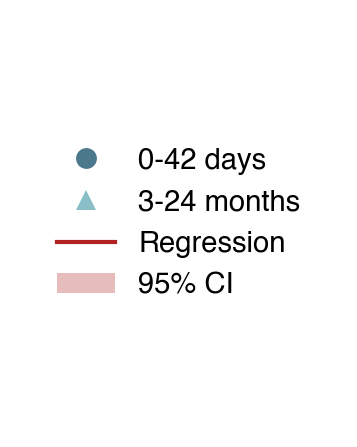
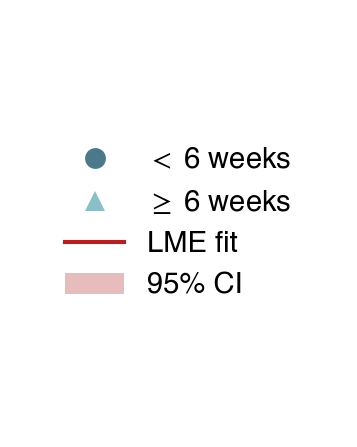
updates to legend

diff --git a/DTI_Processing_Scripts/dti_results_plotting_main.py b/DTI_Processing_Scripts/dti_results_plotting_main.py
@@ -1797,10 +1797,14 @@ def create_area_predicts_fa_plot_paper(df, result4, result5, timepoints=["ultra-
     ax1.spines['right'].set_visible(False)
 
     plt.tight_layout()
-    plt.savefig(f'{output_dir}/area_predicts_fa_anterior_paper.png', dpi=300, bbox_inches='tight')
     plt.savefig(f'{output_dir}/area_predicts_fa_anterior_paper.pdf', bbox_inches='tight')
     plt.savefig(f'{output_dir}/area_predicts_fa_anterior_paper.tiff', dpi=600, bbox_inches='tight')
     plt.savefig('DTI_Processing_Scripts/dti_plots/area_predicts_fa_anterior_paper.png', dpi=300, bbox_inches='tight')
+    # Save variant with faint origin axes
+    ax1.axhline(y=0, color='gray', linestyle='-', linewidth=0.5, alpha=0.3)
+    ax1.axvline(x=0, color='gray', linestyle='-', linewidth=0.5, alpha=0.3)
+    plt.savefig(f'{output_dir}/area_predicts_fa_anterior_paper_with_axes.pdf', bbox_inches='tight')
+    plt.savefig(f'{output_dir}/area_predicts_fa_anterior_paper_with_axes.tiff', dpi=600, bbox_inches='tight')
     plt.close()
 
     # ============ POSTERIOR PLOT (no y-axis label, no x-axis label) ============
@@ -1856,10 +1860,14 @@ def create_area_predicts_fa_plot_paper(df, result4, result5, timepoints=["ultra-
     ax2.spines['right'].set_visible(False)
 
     plt.tight_layout()
-    plt.savefig(f'{output_dir}/area_predicts_fa_posterior_paper.png', dpi=300, bbox_inches='tight')
     plt.savefig(f'{output_dir}/area_predicts_fa_posterior_paper.pdf', bbox_inches='tight')
     plt.savefig(f'{output_dir}/area_predicts_fa_posterior_paper.tiff', dpi=600, bbox_inches='tight')
     plt.savefig('DTI_Processing_Scripts/dti_plots/area_predicts_fa_posterior_paper.png', dpi=300, bbox_inches='tight')
+    # Save variant with faint origin axes
+    ax2.axhline(y=0, color='gray', linestyle='-', linewidth=0.5, alpha=0.3)
+    ax2.axvline(x=0, color='gray', linestyle='-', linewidth=0.5, alpha=0.3)
+    plt.savefig(f'{output_dir}/area_predicts_fa_posterior_paper_with_axes.pdf', bbox_inches='tight')
+    plt.savefig(f'{output_dir}/area_predicts_fa_posterior_paper_with_axes.tiff', dpi=600, bbox_inches='tight')
     plt.close()
 
     print(f"Saved FA paper plots to {output_dir}/")
@@ -1976,10 +1984,14 @@ def create_area_predicts_md_plot_paper(df, result4, result5, timepoints=["ultra-
     ax1.spines['right'].set_visible(False)
 
     plt.tight_layout()
-    plt.savefig(f'{output_dir}/area_predicts_md_anterior_paper.png', dpi=300, bbox_inches='tight')
     plt.savefig(f'{output_dir}/area_predicts_md_anterior_paper.pdf', bbox_inches='tight')
     plt.savefig(f'{output_dir}/area_predicts_md_anterior_paper.tiff', dpi=600, bbox_inches='tight')
     plt.savefig('DTI_Processing_Scripts/dti_plots/area_predicts_md_anterior_paper.png', dpi=300, bbox_inches='tight')
+    # Save variant with faint origin axes
+    ax1.axhline(y=0, color='gray', linestyle='-', linewidth=0.5, alpha=0.3)
+    ax1.axvline(x=0, color='gray', linestyle='-', linewidth=0.5, alpha=0.3)
+    plt.savefig(f'{output_dir}/area_predicts_md_anterior_paper_with_axes.pdf', bbox_inches='tight')
+    plt.savefig(f'{output_dir}/area_predicts_md_anterior_paper_with_axes.tiff', dpi=600, bbox_inches='tight')
     plt.close()
 
     # ============ POSTERIOR PLOT (no y-axis label, with x-axis label) ============
@@ -2034,10 +2046,14 @@ def create_area_predicts_md_plot_paper(df, result4, result5, timepoints=["ultra-
     ax2.spines['right'].set_visible(False)
 
     plt.tight_layout()
-    plt.savefig(f'{output_dir}/area_predicts_md_posterior_paper.png', dpi=300, bbox_inches='tight')
     plt.savefig(f'{output_dir}/area_predicts_md_posterior_paper.pdf', bbox_inches='tight')
     plt.savefig(f'{output_dir}/area_predicts_md_posterior_paper.tiff', dpi=600, bbox_inches='tight')
     plt.savefig('DTI_Processing_Scripts/dti_plots/area_predicts_md_posterior_paper.png', dpi=300, bbox_inches='tight')
+    # Save variant with faint origin axes
+    ax2.axhline(y=0, color='gray', linestyle='-', linewidth=0.5, alpha=0.3)
+    ax2.axvline(x=0, color='gray', linestyle='-', linewidth=0.5, alpha=0.3)
+    plt.savefig(f'{output_dir}/area_predicts_md_posterior_paper_with_axes.pdf', bbox_inches='tight')
+    plt.savefig(f'{output_dir}/area_predicts_md_posterior_paper_with_axes.tiff', dpi=600, bbox_inches='tight')
     plt.close()
 
     print(f"Saved MD paper plots to {output_dir}/")
@@ -2080,10 +2096,10 @@ def create_area_predicts_legend_paper():
     # Create legend elements with redundant color + shape encoding
     legend_elements = [
         Line2D([0], [0], marker='o', color='w', markerfacecolor=color_early,
-               markeredgecolor='none', markersize=5, alpha=0.7, label='0-42 days'),
+               markeredgecolor='none', markersize=5, alpha=0.7, label='$<$ 6 weeks'),
         Line2D([0], [0], marker='^', color='w', markerfacecolor=color_late,
-               markeredgecolor='none', markersize=5, alpha=0.7, label='3-24 months'),
-        Line2D([0], [0], color=color_regression, linewidth=1.0, label='Regression'),
+               markeredgecolor='none', markersize=5, alpha=0.7, label='$\\geq$ 6 weeks'),
+        Line2D([0], [0], color=color_regression, linewidth=1.0, label='LME fit'),
         mpatches.Patch(facecolor=color_ci, alpha=0.3, edgecolor='none', label='95% CI'),
     ]
 
@@ -2092,8 +2108,6 @@ def create_area_predicts_legend_paper():
                       edgecolor='none', facecolor='white')
 
     plt.tight_layout()
-    plt.savefig(f'{output_dir}/area_predicts_legend_paper.png', dpi=300,
-                bbox_inches='tight', transparent=False)
     plt.savefig(f'{output_dir}/area_predicts_legend_paper.pdf',
                 bbox_inches='tight', transparent=False)
     plt.savefig(f'{output_dir}/area_predicts_legend_paper.tiff', dpi=600,
